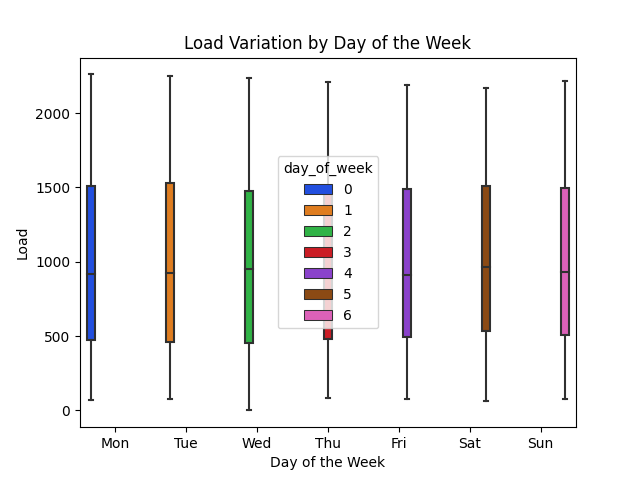
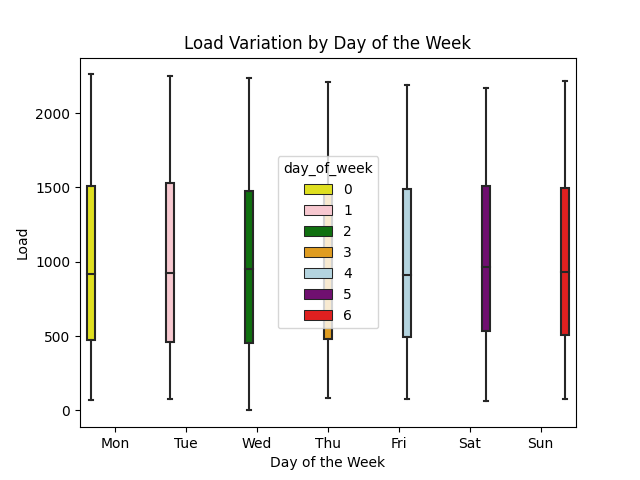
update

diff --git a/3_load_clascify.py b/3_load_clascify.py
@@ -30,6 +30,8 @@ if not os.path.exists(folder_name):
 days = ['Monday', 'Tuesday', 'Wednesday', 'Thursday', 'Friday', 'Saturday', 'Sunday']
 months = ['January', 'February', 'March', 'April', 'May', 'June', 'July', 'August', 'September', 'October', 'November', 'December']
 
+# Define a day color palette
+dayColor_palette = ['yellow', 'pink','green', 'orange', 'lightblue', 'purple', 'red']
 
 weekday_mask = (df.index.dayofweek >= 0) & (df.index.dayofweek < 5)
 weekend_mask = (df.index.dayofweek >= 5)
@@ -157,10 +159,14 @@ plt.xticks(hours)
 plt.savefig(f"result_{year_of_first_row}/average_weekday_weekend.png", format="png")
 plt.show()
 
+
+# Define a day color palette
+dayColor_palette = ['yellow', 'pink','green', 'orange', 'lightblue', 'purple', 'red']
+
 # Plot the hourly data for all 7 days of the week on the same page
 plt.figure(figsize=(12, 6))
 for day in range(7):
-    plt.plot(hours, day_patterns[day], label=days[day], marker='o')
+    plt.plot(hours, day_patterns[day], label=days[day], marker='o', color=dayColor_palette[day])
 
 plt.title('Hourly Electrical Load Profile for All Days of the Week')
 plt.xlabel('Hour of the Day')
@@ -186,7 +192,7 @@ for day in range(7):
     day_data_ldc = day_patterns_ldc[day]
     if len(day_data_ldc) > 0:  # Check if the list is not empty
         # print(f"Day {day + 1} length: {len(day_data_ldc)}")
-        plt.plot(percentiles, [day_data_ldc[int(p * len(day_data_ldc) / 100)] for p in percentiles], label=days[day])
+        plt.plot(percentiles, [day_data_ldc[int(p * len(day_data_ldc) / 100)] for p in percentiles], label=days[day], color=dayColor_palette[day])
         
 plt.title('Load Duration Curve for All Days of the Week')
 plt.xlabel('Percentile')

diff --git a/2_exploratory_data_analysis.py b/2_exploratory_data_analysis.py
@@ -20,6 +20,10 @@ specific_3_day_mask = (data.index.dayofweek == 5) # SAT
 specific_4_day_mask = (data.index.dayofweek == 6) # SUN
 specific_5_day_mask = (data.index.dayofweek >= 5) # SAT-SUN
 
+# Define a day color palette
+dayColor_palette = ['yellow', 'pink','green', 'orange', 'lightblue', 'purple', 'red']
+
+
 specific_1_day = data[specific_1_day_mask]
 specific_2_day = data[specific_2_day_mask]
 specific_3_day = data[specific_3_day_mask]
@@ -148,7 +152,7 @@ plt.savefig(f"result_{year_of_first_row}/Seasonal_specific_5.png", format="png")
 plt.clf()
 
 # Explore day of the week patterns
-sns.boxplot(x='day_of_week', y='load', data=data, showfliers = False, palette='bright', hue='day_of_week')
+sns.boxplot(x='day_of_week', y='load', data=data, showfliers = False, palette=dayColor_palette, hue='day_of_week')
 plt.title('Load Variation by Day of the Week')
 plt.xlabel('Day of the Week')
 plt.ylabel('Load')

diff --git a/5_dr_baseline_simple.py b/5_dr_baseline_simple.py
@@ -3,8 +3,8 @@ import matplotlib.pyplot as plt
 import math
 
 # Loop through each day in the year (yyyy-mm-dd)
-start_date = pd.Timestamp('2023-01-11')
-end_date = pd.Timestamp('2023-01-15')
+start_date = pd.Timestamp('2022-01-11')
+end_date = pd.Timestamp('2022-01-15')
 
 # Function to calculate demand pattern for a specific day
 def calculate_demand_pattern_for_day(data, day, Xday=4, Yday=5):
